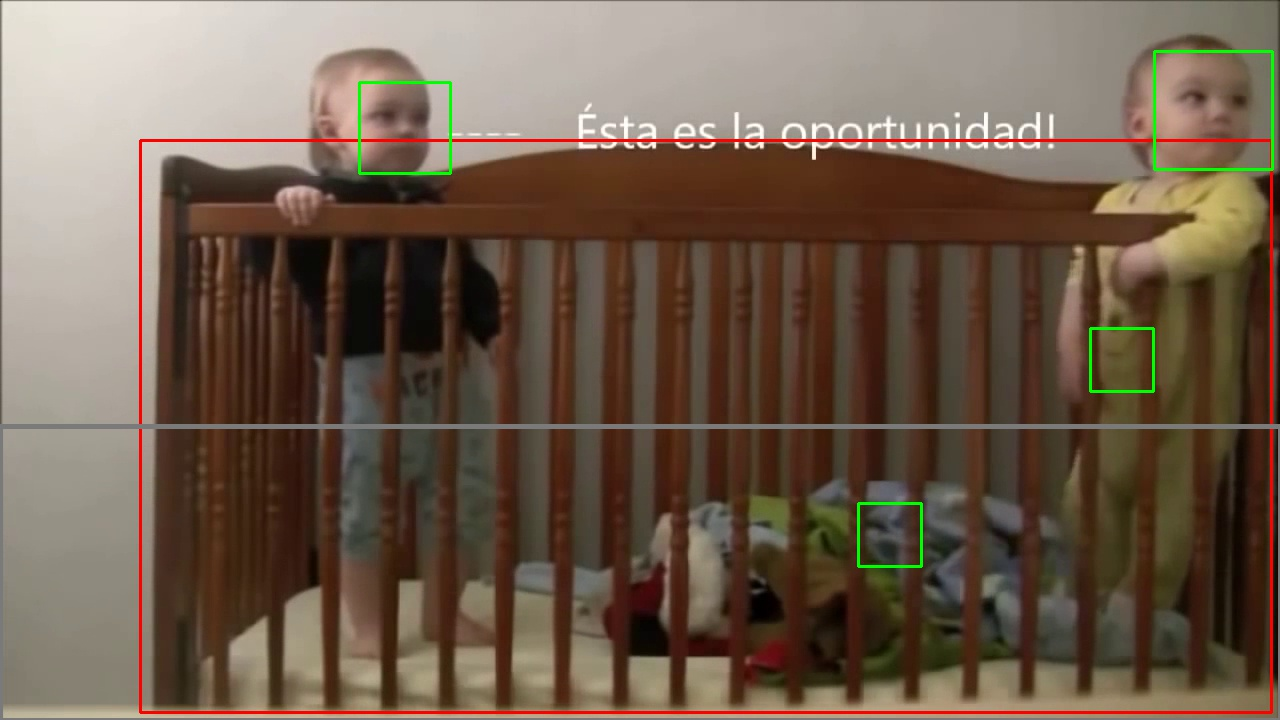
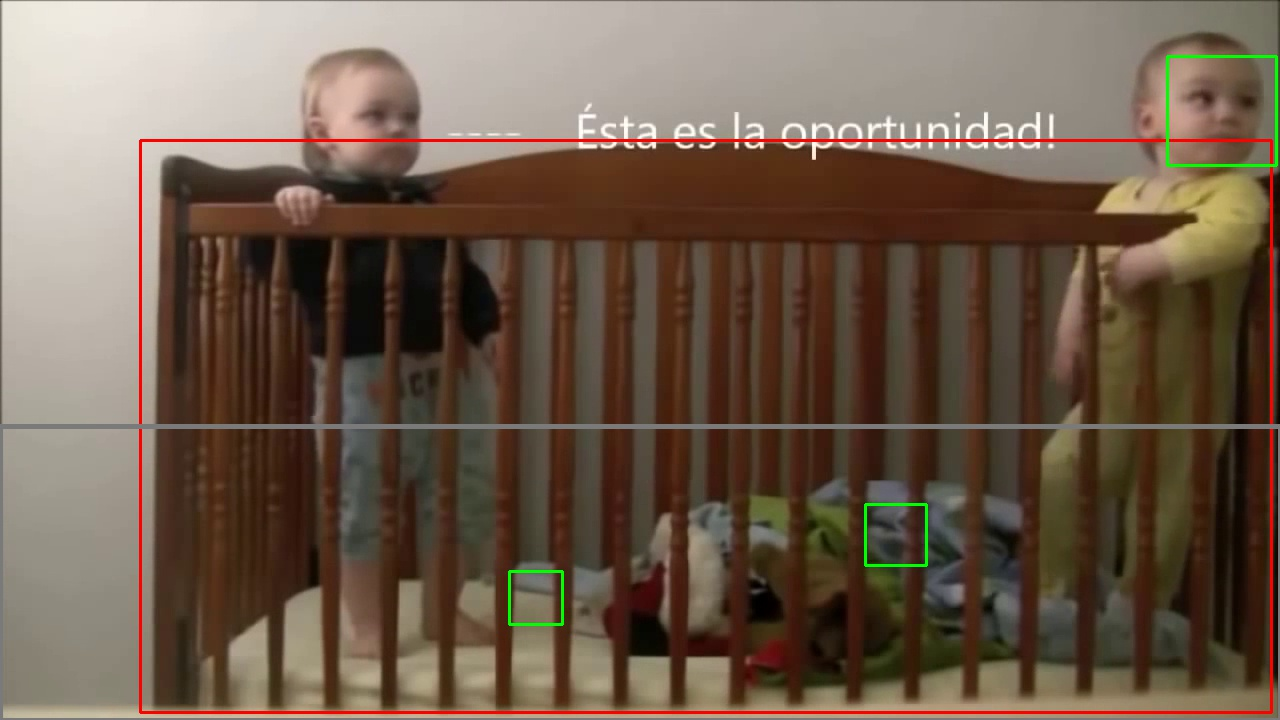
Before button

diff --git a/CribMode.py b/CribMode.py
@@ -9,7 +9,7 @@ import imutils
 
 def crib_Mode():
     print('Entering Crib Mode')
-    cap = cv2.VideoCapture(0)
+    cap = cv2.VideoCapture('Sample_Videos/5.mp4')
     firstframe = None
     ret,frame = cap.read()
     x=frame.size
@@ -26,7 +26,7 @@ def crib_Mode():
         #frame = imutils.resize(frame,width=480)
         while status == False:
             ret, frame = cap.read()
-            cv2.imwrite('test_images/cribtes.jpg',frame)
+            cv2.imwrite('test_images/cribtes.jpg',frame) 
             (left,right,top,bottom,status)=dc.run_detection(frame)
             print(status)
             firstframe = frame

diff --git a/bk_SleepMode.py b/bk_SleepMode.py
@@ -19,7 +19,7 @@ def sleep_Mode():
 
     #ap = argparse.ArgumentParser()
     #ap.add_argument("-v", "--video", help="path to the video file")
-    video="sample_videos/test2.mp4"
+    video="sample_videos/test.mp4"
     #ap.add_argument("-a", "--min-area", type=int, default=500, help="minimum area size")
     min_area=500
     #args = vars(ap.parse_args())

diff --git a/Baby_Monitoring_System.py b/Baby_Monitoring_System.py
@@ -11,7 +11,6 @@ def menu():
         option = input(" 1. Play Mode\n 2. Sleeping Mode\n 3.Roll On The Bed\n 4.Crib Mode \n Choose Your Option: " )
         
         if (option=='1'):
-            
             _thread.start_new_thread(pm.play_Mode(),())
 
         elif (option =='2'):
